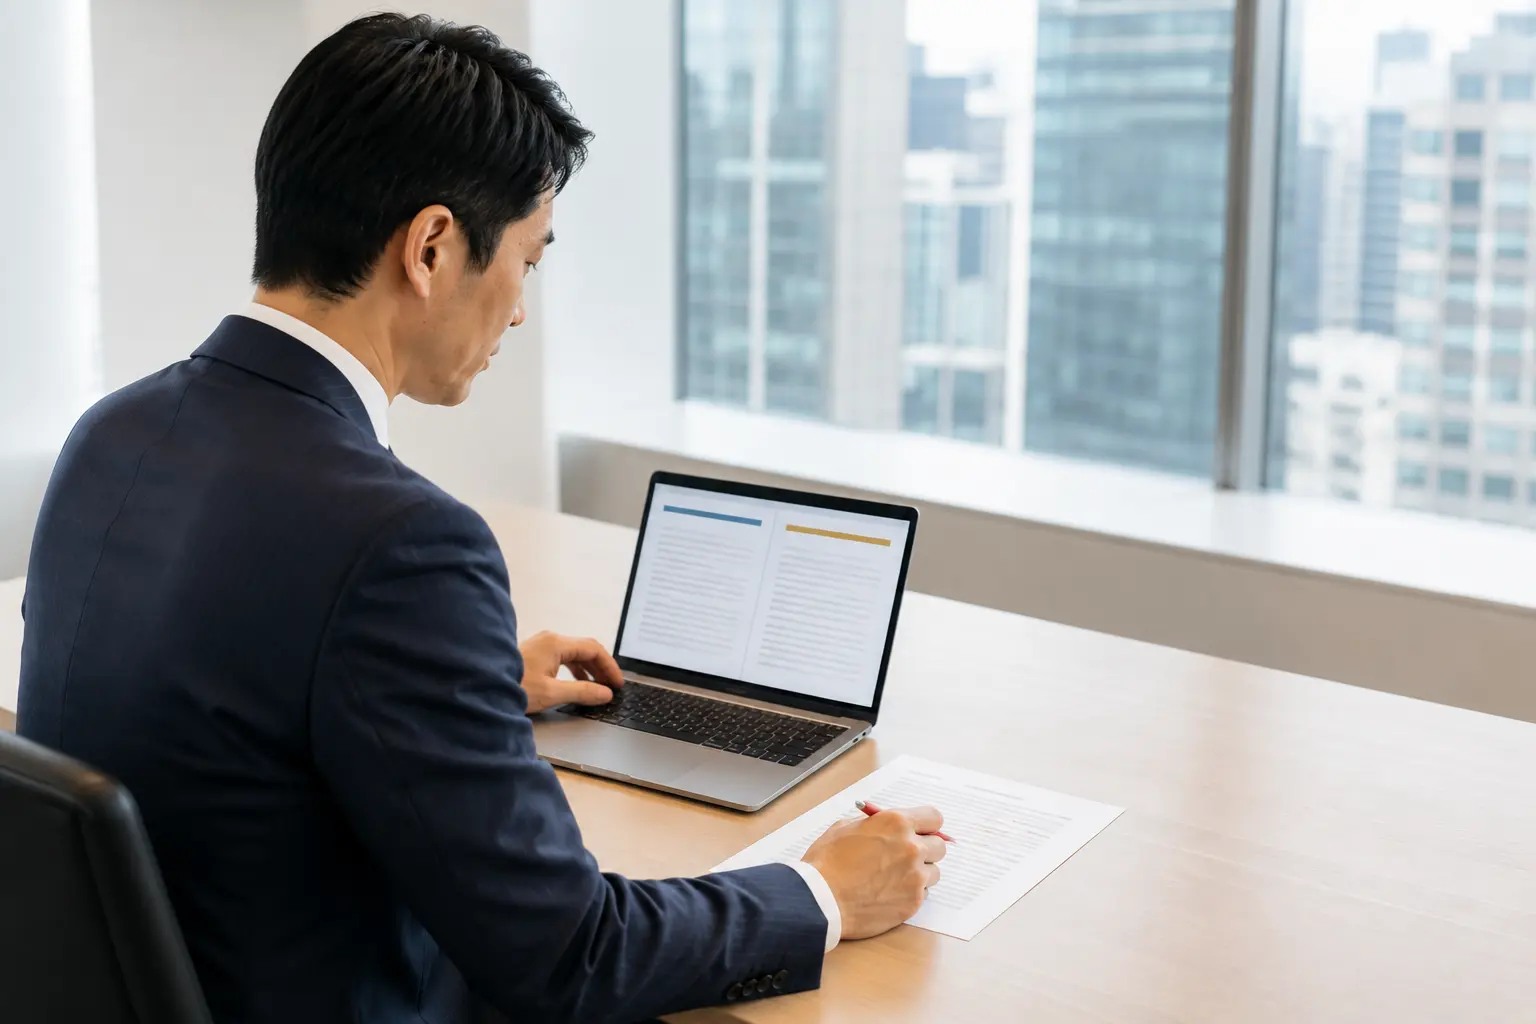
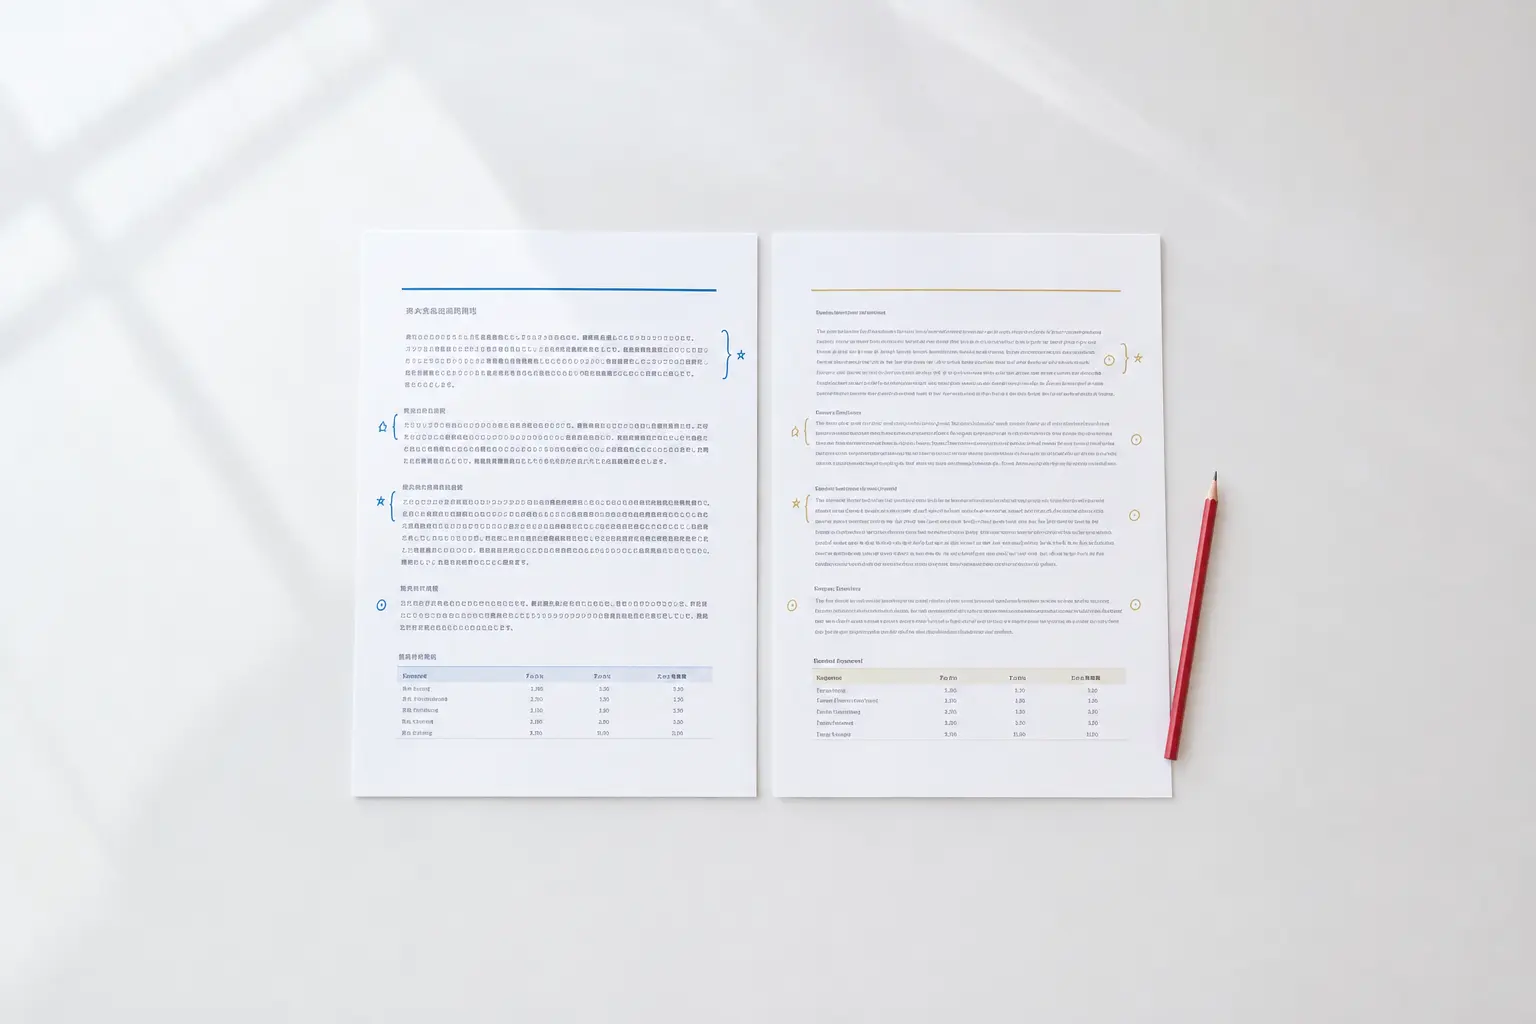
開示翻訳の写真とコピーを再構成

diff --git a/すぐわかるJII/index.html b/すぐわかるJII/index.html
@@ -59,9 +59,10 @@
     </div>
     <div class="qj-visual reveal" role="group" aria-label="JIIが支える三つの局面">
       <a class="qj-shot qj-shot--disclosure" href="/%E3%82%B5%E3%83%BC%E3%83%93%E3%82%B9/%E9%96%8B%E7%A4%BA%E7%BF%BB%E8%A8%B3/">
-        <img src="/assets/photos/jii-quick/disclosure.webp" srcset="/assets/photos/jii-quick/disclosure.webp 768w, /assets/photos/jii-quick/disclosure@2x.webp 1536w" sizes="(max-width:760px) 84vw, 30vw" width="768" height="512" alt="日本語と英語の開示資料を照合し、英文を推敲するIR担当者">
+        <img src="/assets/photos/jii-quick/disclosure.webp" srcset="/assets/photos/jii-quick/disclosure.webp 768w, /assets/photos/jii-quick/disclosure@2x.webp 1536w" sizes="(max-width:760px) 84vw, 30vw" width="768" height="512" alt="日本語の開示資料と英訳原稿を対照した校正紙">
+        <span class="qj-shot-cue" aria-hidden="true">日本語 <i>→</i> 英語</span>
         <span class="qj-shot-shade" aria-hidden="true"></span>
-        <span class="qj-shot-copy"><i>01 / 開示翻訳</i><b>英文開示を整える</b><em>詳しく見る →</em></span>
+        <span class="qj-shot-copy"><i>01 / 開示翻訳</i><b>投資家に伝わる英語へ</b><em>詳しく見る →</em></span>
       </a>
       <a class="qj-shot qj-shot--dialogue" href="/%E3%82%B5%E3%83%BC%E3%83%93%E3%82%B9/IR%E9%80%9A%E8%A8%B3/">
         <img src="/assets/photos/jii-quick/dialogue.webp" srcset="/assets/photos/jii-quick/dialogue.webp 768w, /assets/photos/jii-quick/dialogue@2x.webp 1536w" sizes="(max-width:760px) 84vw, 38vw" width="768" height="512" alt="日本企業の経営者と海外投資家の間で通訳するIR通訳者">
@@ -71,7 +72,7 @@
       <a class="qj-shot qj-shot--feedback" href="/%E3%82%B5%E3%83%BC%E3%83%93%E3%82%B9/%E7%B6%99%E7%B6%9AIR%E6%94%AF%E6%8F%B4/">
         <img src="/assets/photos/jii-quick/feedback.webp" srcset="/assets/photos/jii-quick/feedback.webp 768w, /assets/photos/jii-quick/feedback@2x.webp 1536w" sizes="(max-width:760px) 84vw, 30vw" width="768" height="512" alt="四半期ごとの課題と改善計画を確認する継続IR支援のチーム">
         <span class="qj-shot-shade" aria-hidden="true"></span>
-        <span class="qj-shot-copy"><i>03 / 継続IR支援</i><b>改善を積み重ねる</b><em>詳しく見る →</em></span>
+        <span class="qj-shot-copy"><i>03 / 継続IR支援</i><b>対話を次の開示に生かす</b><em>詳しく見る →</em></span>
       </a>
     </div>
     <p class="qj-visual-hint">写真にカーソルを合わせると、各場面が広がります</p>

diff --git a/assets/quick-jii.css b/assets/quick-jii.css
@@ -34,6 +34,8 @@
 .qj-shot--disclosure img{object-position:50% center}.qj-shot--dialogue img{object-position:50% center}.qj-shot--feedback img{object-position:42% center}
 .qj-shot:hover img,.qj-shot:focus-visible img{transform:scale(1.025);filter:saturate(1) brightness(1.09) contrast(1.01)}
 .qj-shot-shade{position:absolute;inset:0;background:linear-gradient(180deg,rgba(11,25,48,0) 44%,rgba(11,25,48,.7) 100%)}
+.qj-shot-cue{position:absolute;z-index:2;top:16px;right:16px;padding:6px 9px;border:1px solid rgba(201,164,100,.7);background:rgba(15,31,58,.82);font-size:10px;letter-spacing:.08em;color:#fff;box-shadow:0 2px 10px rgba(8,18,34,.12)}
+.qj-shot-cue i{margin:0 4px;font-style:normal;color:#e2c986}
 .qj-shot-copy{position:absolute;z-index:2;right:20px;bottom:18px;left:20px;display:flex;flex-direction:column;align-items:flex-start;color:#fff;text-shadow:0 1px 8px rgba(8,18,34,.62)}
 .qj-shot-copy i{padding:4px 8px;border:1px solid rgba(214,185,119,.55);background:rgba(15,31,58,.74);font-family:var(--mono);font-size:10px;font-style:normal;letter-spacing:.14em;color:#e2c986}
 .qj-shot-copy b{margin-top:8px;font-family:var(--serif);font-size:clamp(17px,1.7vw,23px);font-weight:400;line-height:1.45;letter-spacing:.035em;white-space:nowrap}
